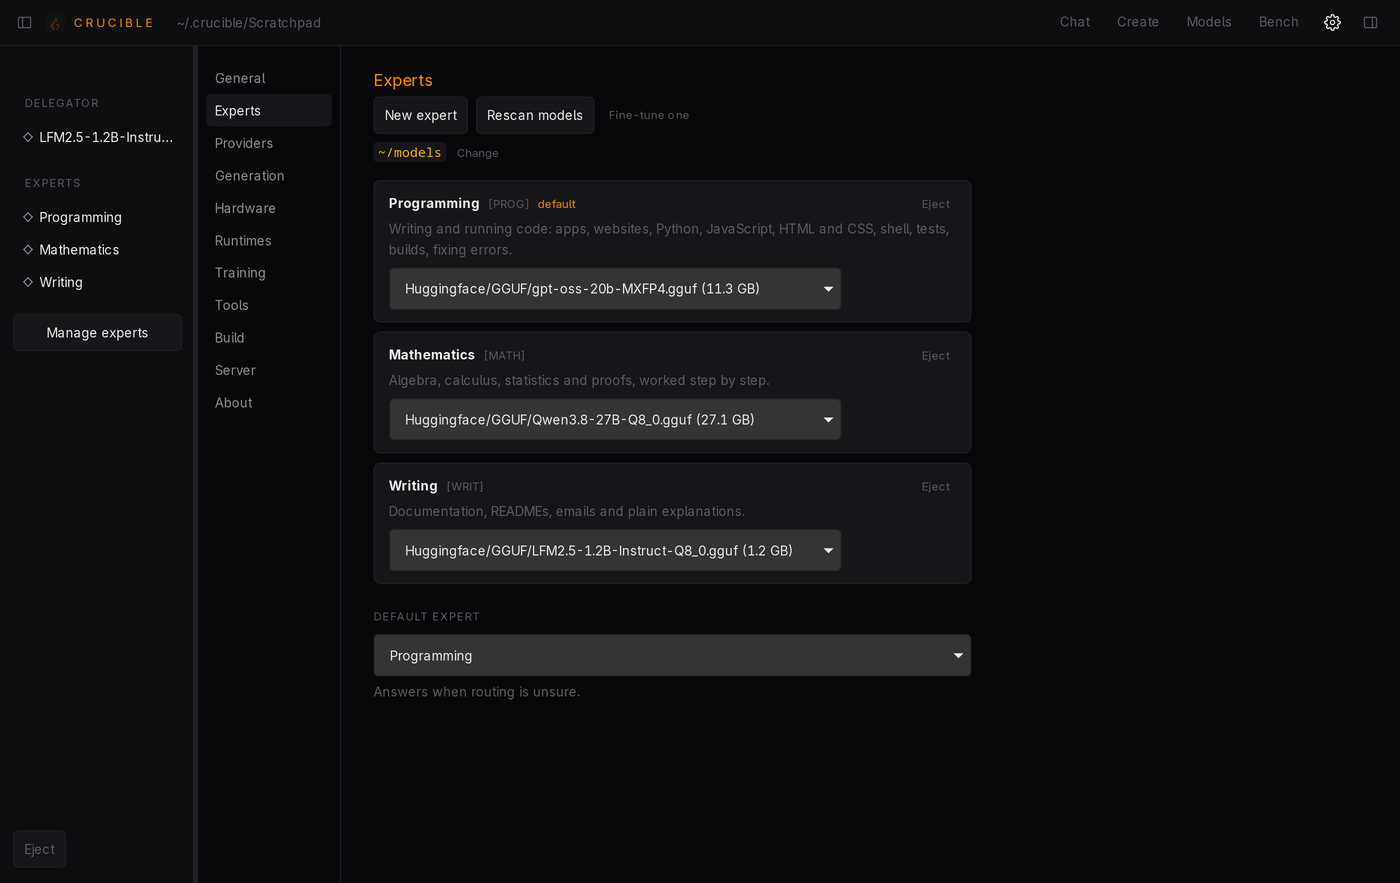
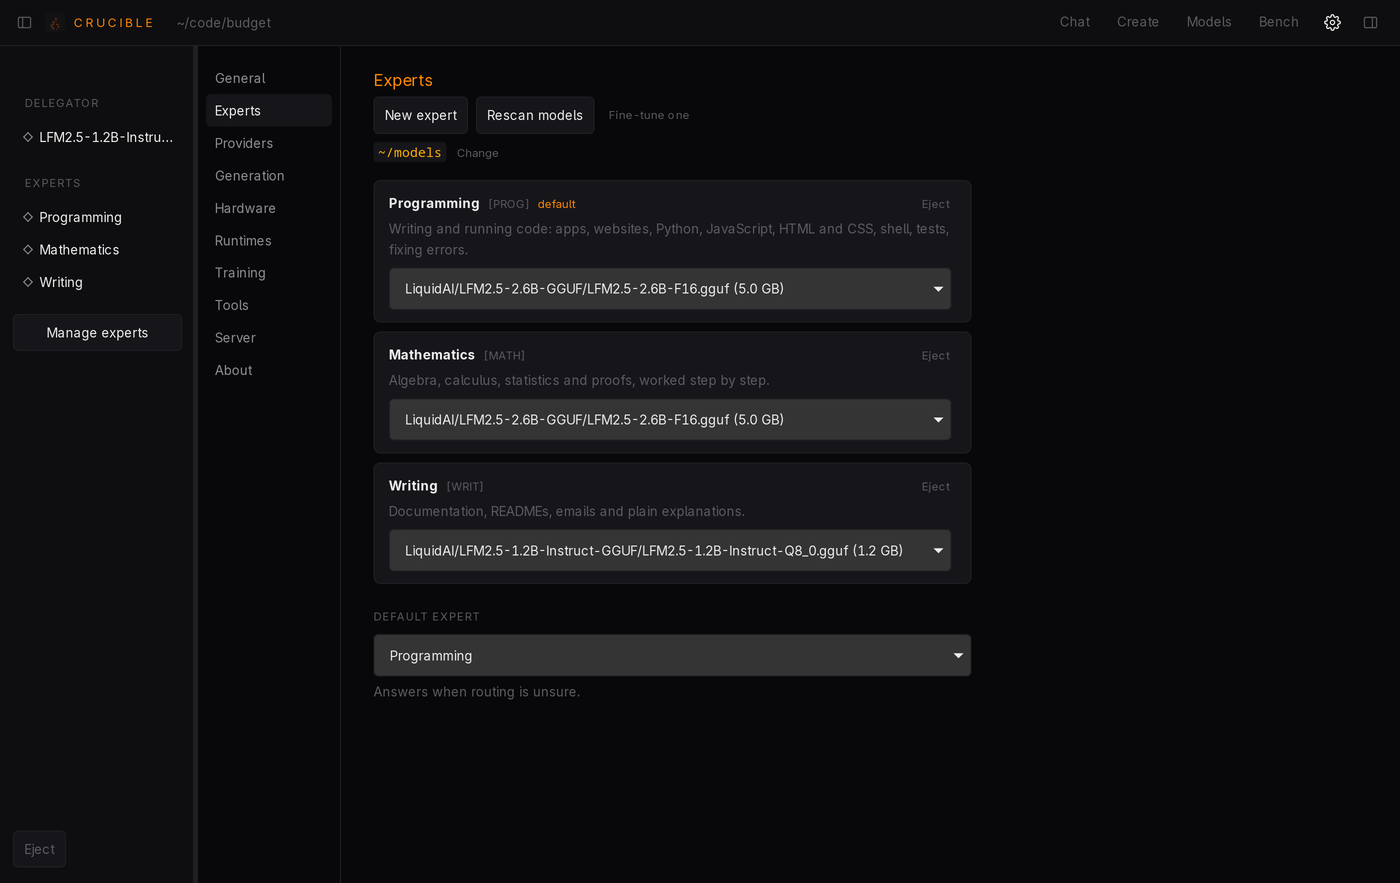
README pictures of the app without Build mode
The pictures that showed what is gone are retaken with ~/code/budget open.
The side menu has no agents, Settings has no Build page, the box says Ask
anything, and History lists conversations only.

build.png is now ask.png, a question about app.js answered by one expert
after it reads the file. A takeover between experts is to be retaken on
the graphics cards. server.png has HTTPS on, its SHA-256 and three real
requests, taken in a network of its own with a made-up 192.168.1.42.

The cards were off limits, so these were taken on the CPU. The Models and
Condense marks read CPU only. runtimes.png keeps the 0.9.6 runtime cards,
which the code still draws the same way, under the new side menu and
Settings list.

diff --git a/README.md b/README.md
@@ -20,7 +20,7 @@ add a key. Nothing leaves the machine until you say so.
 
 Website: https://msaunders.dev/crucible/
 
-![A request worked in the chat: the expert's actions above its answer, the model at work in the corner](docs/images/build.png)
+![A question answered in the chat: the expert reads app.js, then answers, with the models in memory in the corner](docs/images/ask.png)
 
 ___
 ## Install
@@ -229,7 +229,7 @@ Every model, local or not, gets the same tools in a trusted folder:
 - Chats keep working while it serves. A request waits its turn.
 - It listens only while it is on.
 
-![The local server: on, its address, and the last requests](docs/images/server.png)
+![The local server over HTTPS: its certificate's SHA-256, its addresses on this machine and the network, and the last requests](docs/images/server.png)
 
 ### Hardware
 
